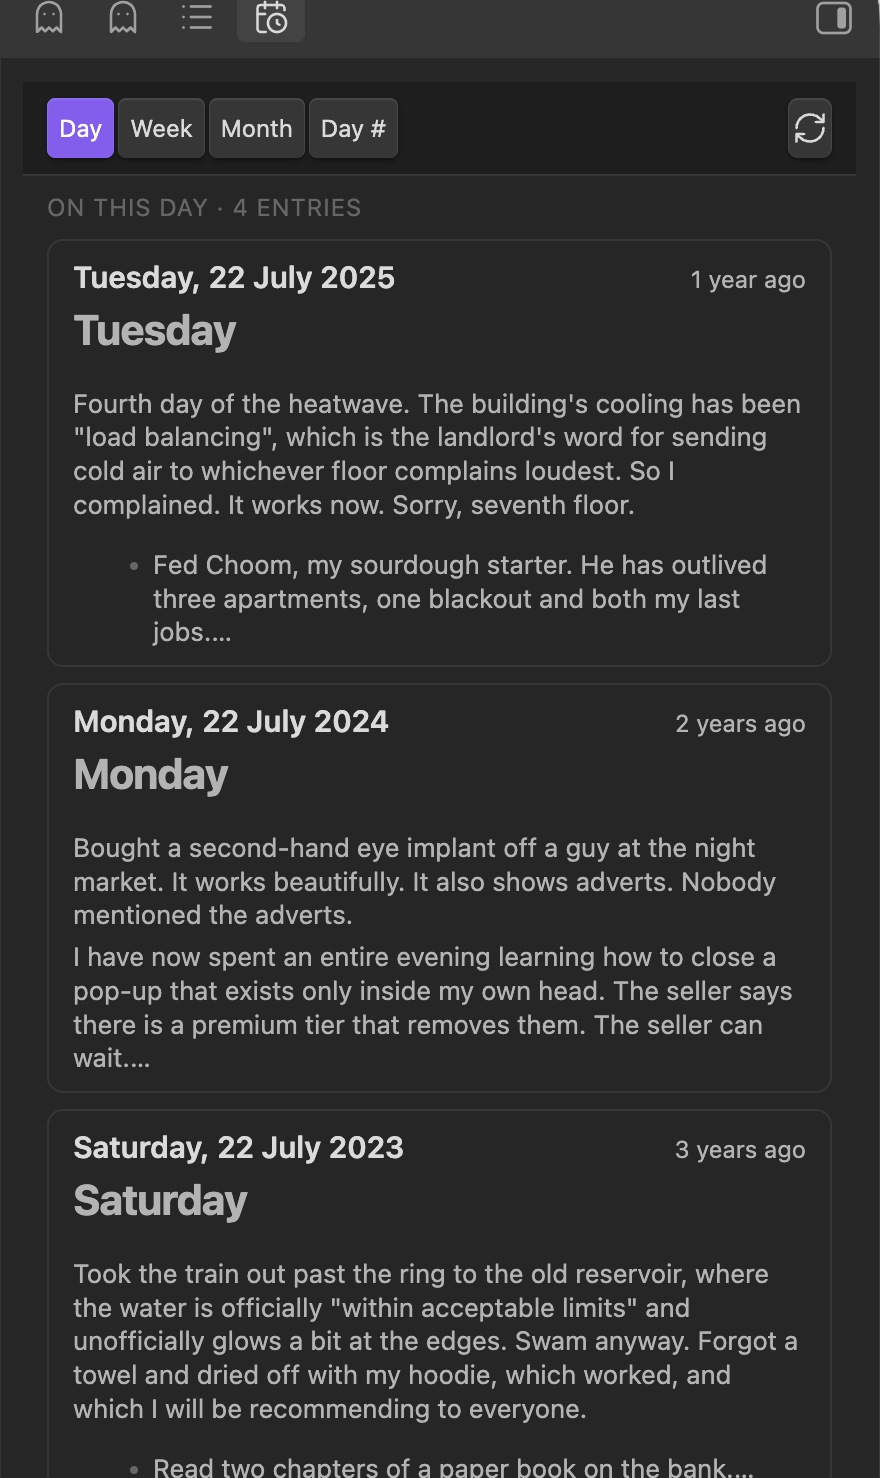
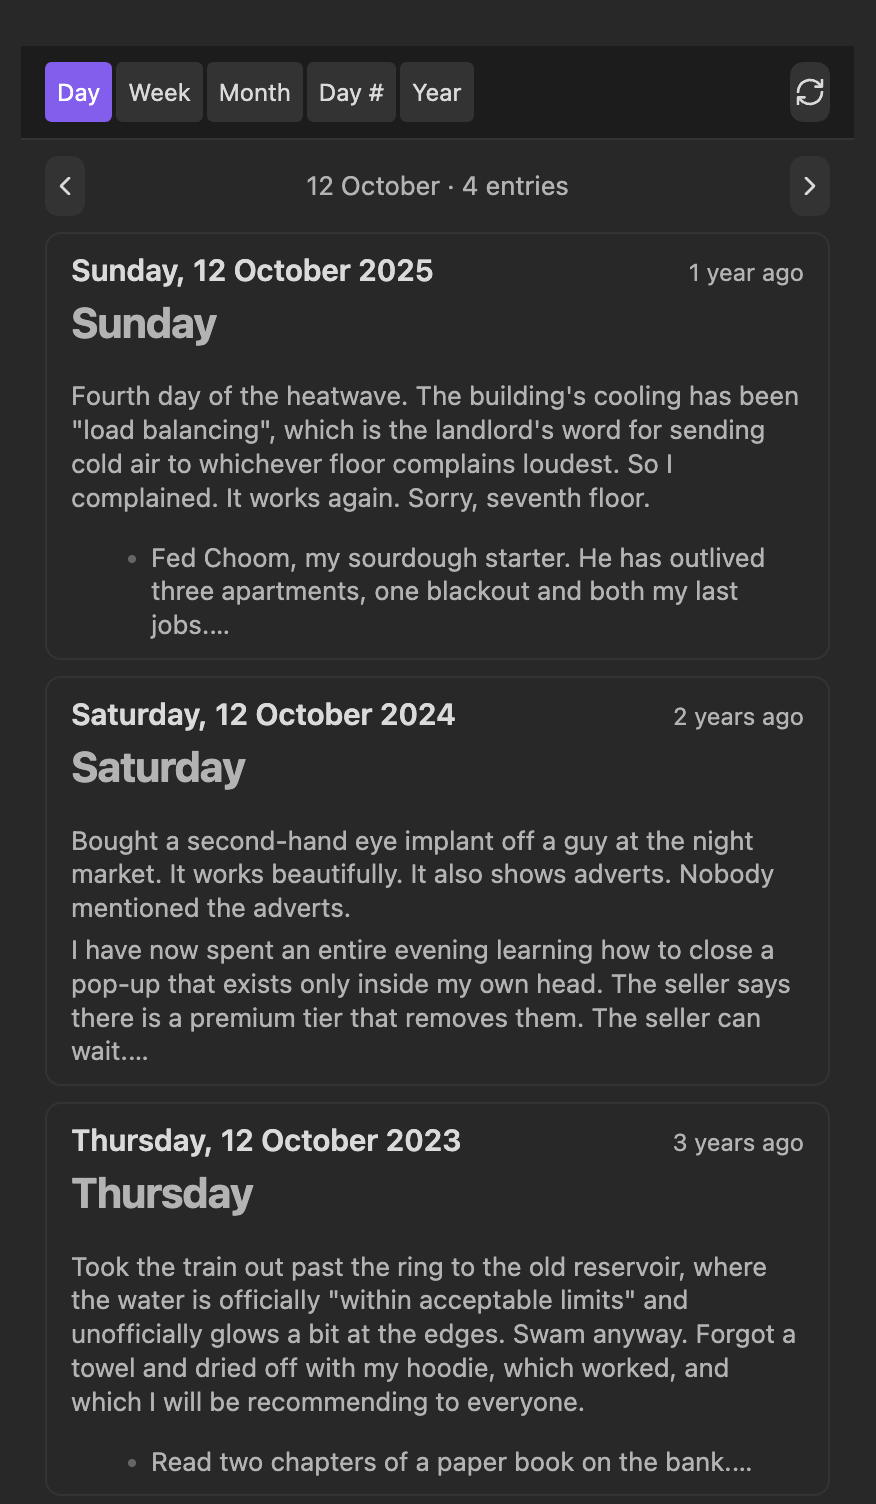
docs: refresh the README screenshot

diff --git a/README.md b/README.md
@@ -19,7 +19,7 @@ except it reads your Obsidian daily notes instead of ICS calendars.
   />
   <img
     src="https://raw.githubusercontent.com/wojciechpolak/obsidian-daily-echoes/main/docs/img/screenshot-light.webp"
-    alt="The Daily Echoes panel in Obsidian's sidebar, in Day mode, listing daily notes from 22 July 2025, 2024 and 2023, each labelled 1, 2 and 3 years ago."
+    alt="The Daily Echoes panel in Obsidian's sidebar, in Day mode, listing daily notes from 12 October 2025, 2024 and 2023, each labelled 1, 2 and 3 years ago."
     width="400"
   />
 </picture>
